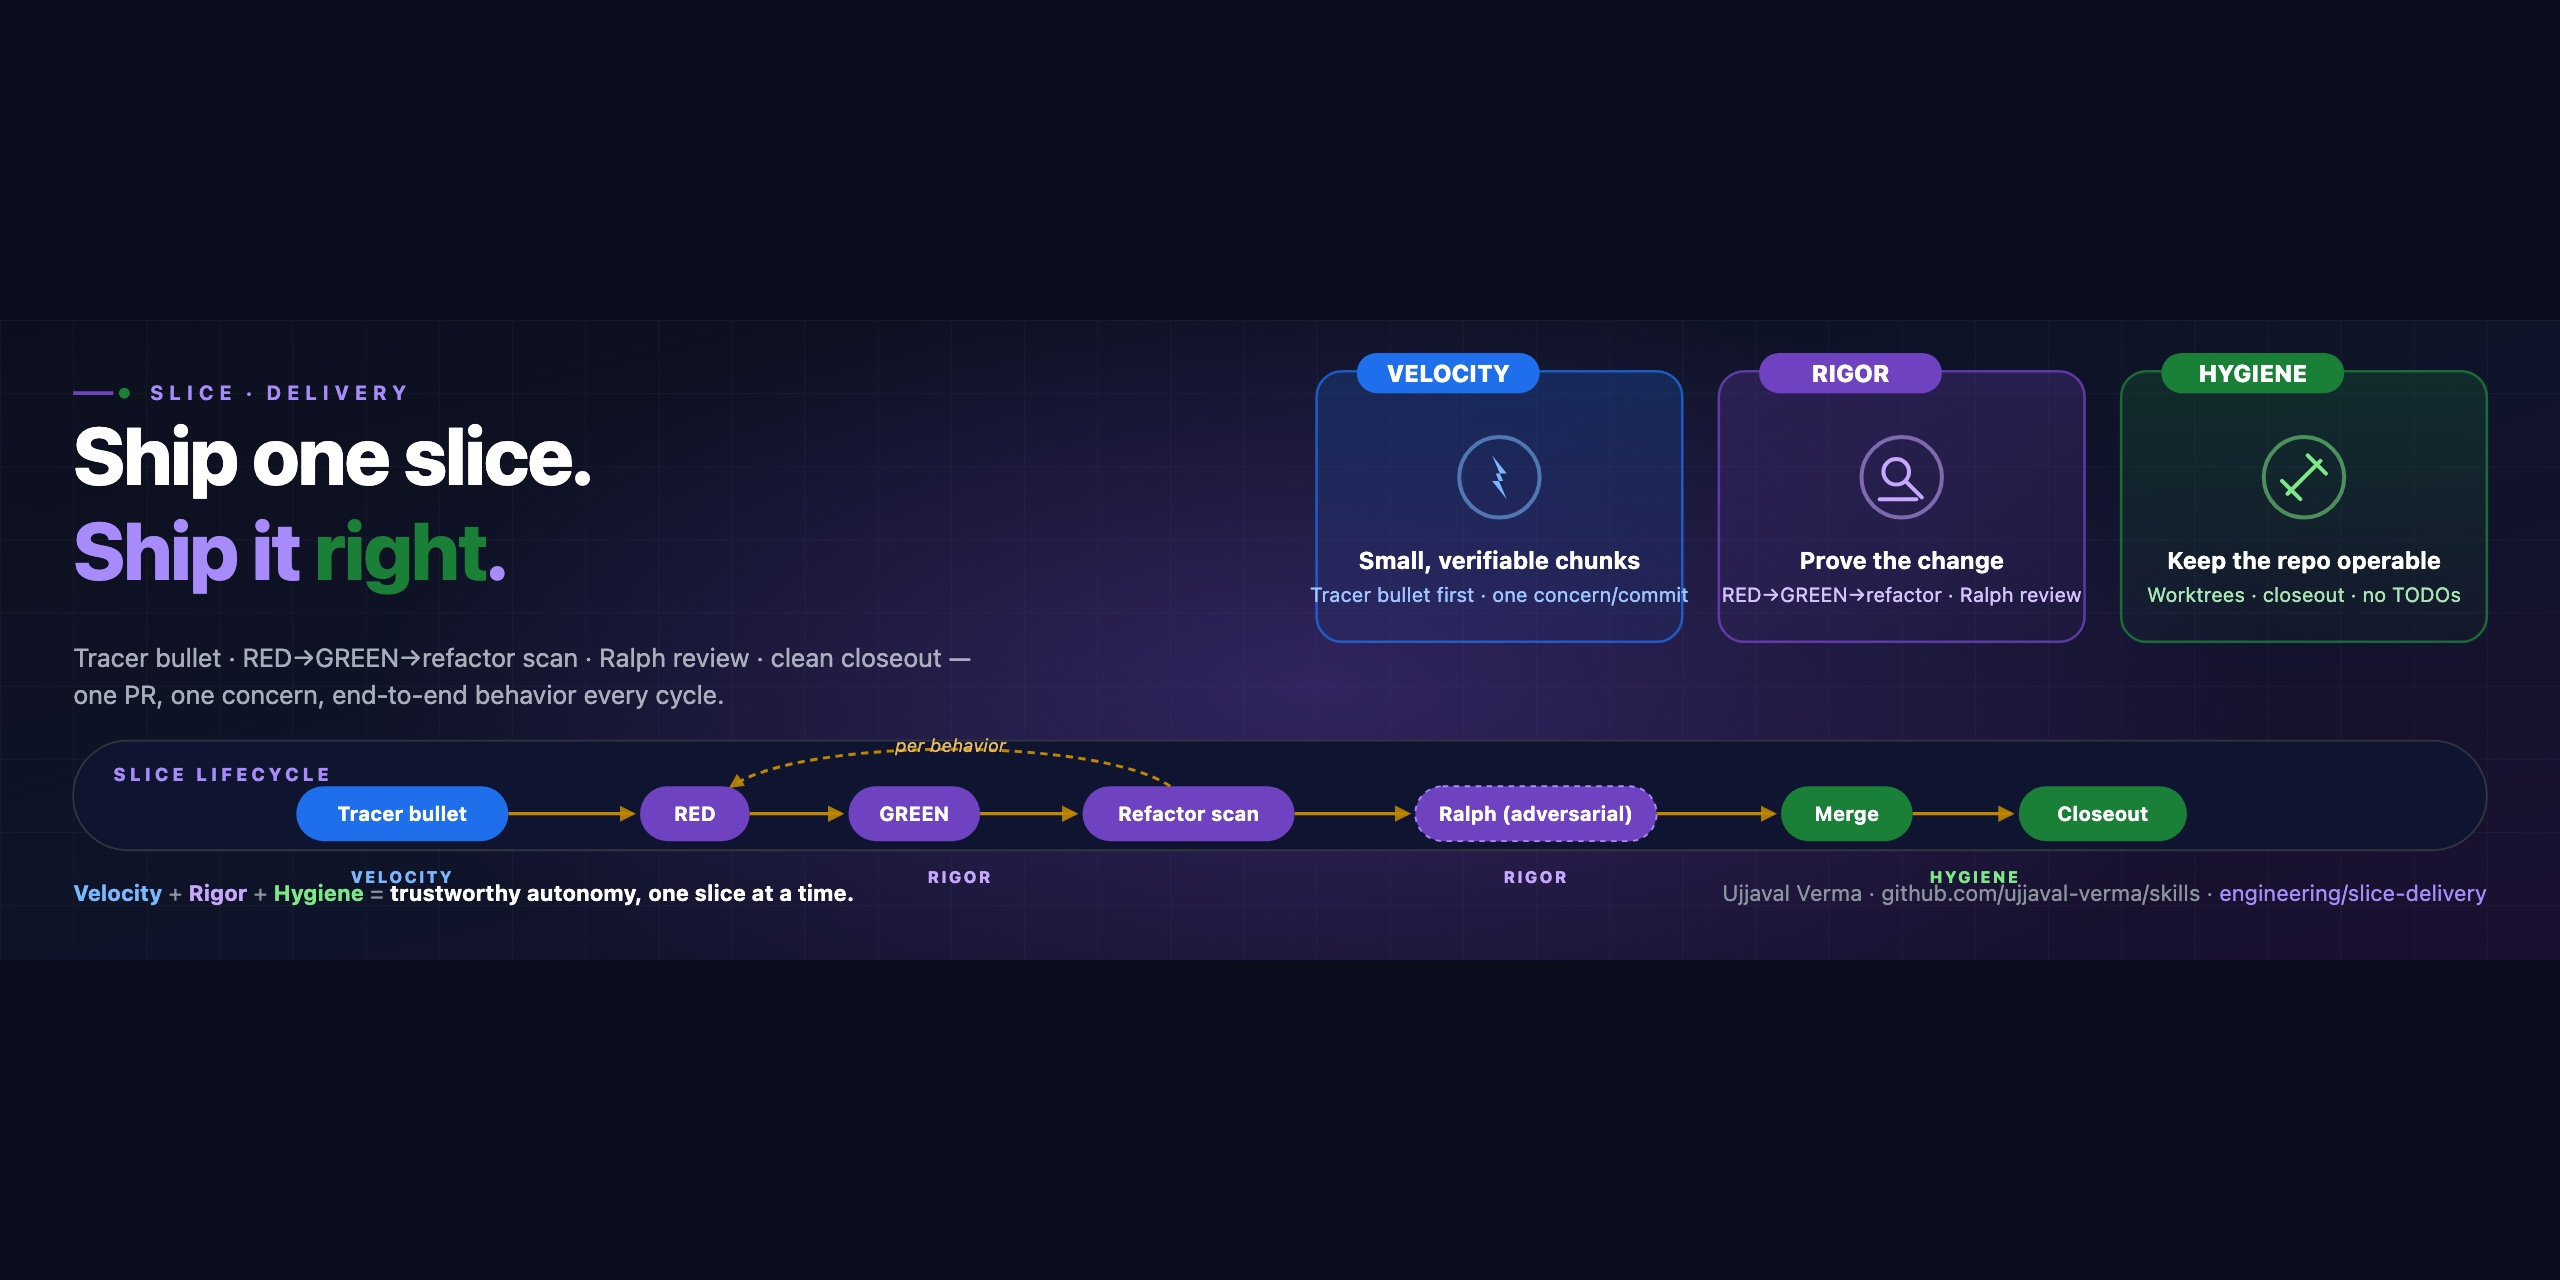
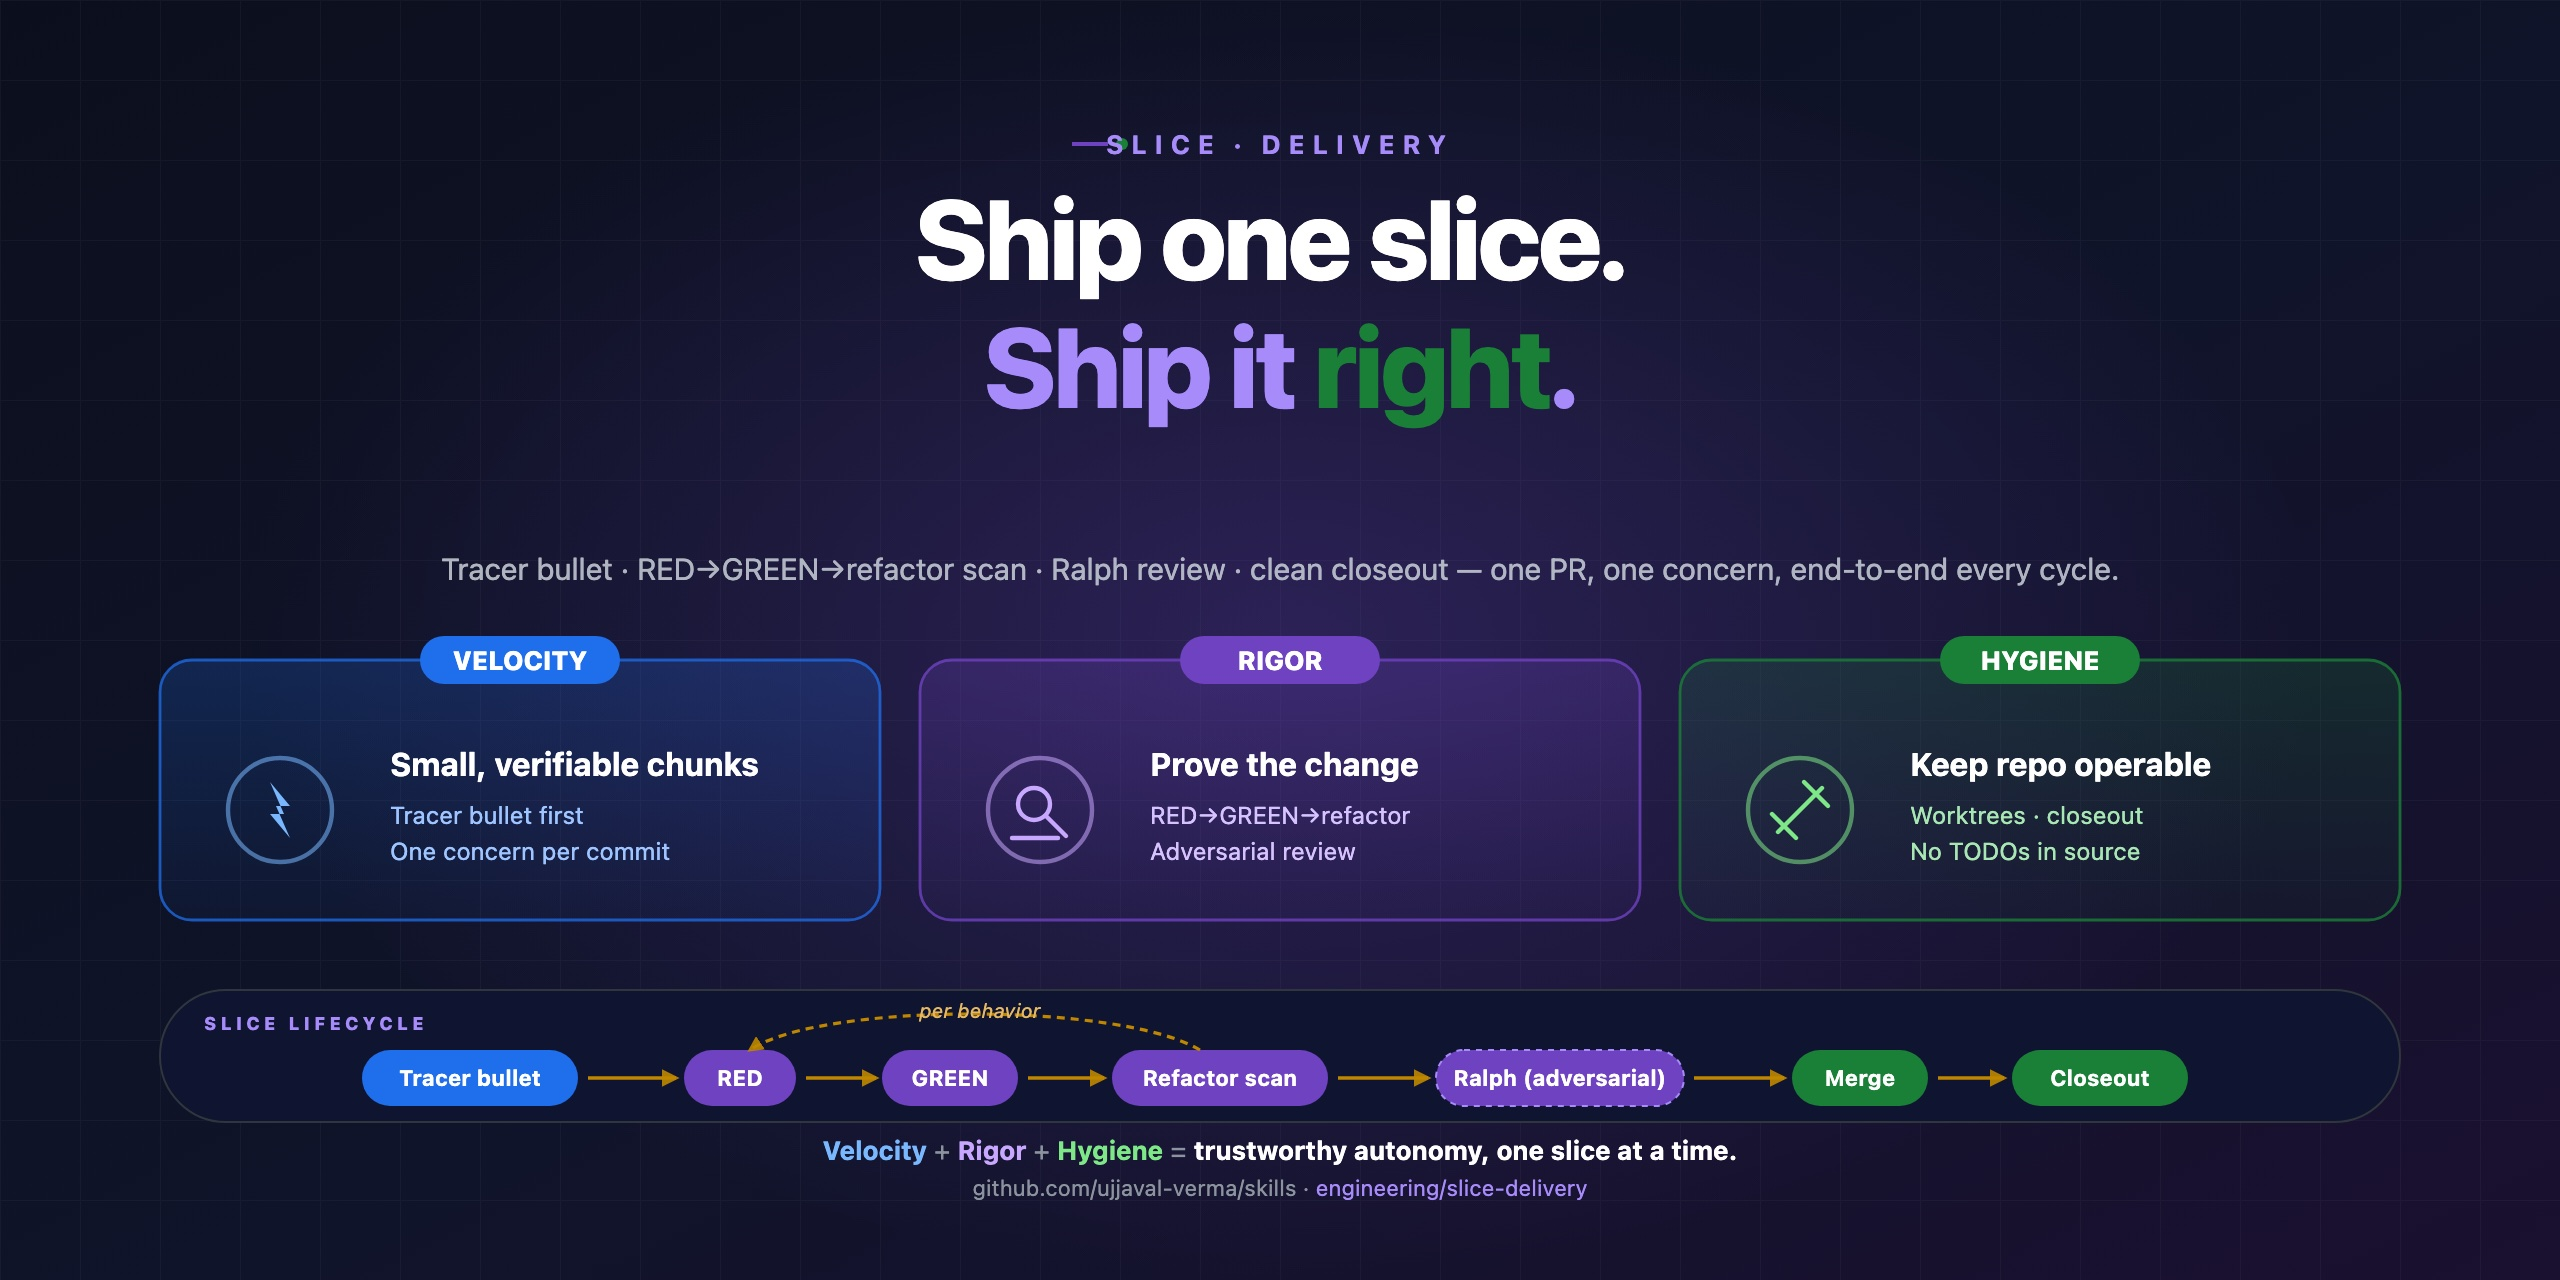
docs(assets): rebuild social card as inherent 2:1 with safe-area inset (#14)
* docs(assets): rebuild social card as inherent 2:1 with safe-area inset

The previous SVG was a 4:1 LinkedIn cover padded externally to 2:1 via
an HTML wrapper. Content ran edge-to-edge horizontally and risked being
cropped by GitHub's bleed zone per the official social-card template
(repository-open-graph-template.png: 1280×640 with a 40pt safe-area
border around important details).

Rewrites the SVG as intrinsically 1280×640 (rendered at 2560×1280 for
2× density) with the headline, pillar cards, lifecycle bar, and footer
all reflowed inside the [40,40]→[1240,600] safe region. Same design
language and palette as before, just composed for the 2:1 ratio
directly.

Side benefits:
- Regen command drops the HTML-wrapper hack: Chrome can render the SVG
  directly at the window size since the intrinsic dimensions match.
- Footer second line pulled to y=598 (was 608) to clear the bottom
  safe-area boundary.

Updates the maintainer regen section in CONTRIBUTING.md accordingly,
and adds a note about preserving the safe-area inset on future reflows.

* fix: address Ralph review on PR #14

- N1: bump lifecycle arrow gaps from 1px → 5px clearance from pill
  edges (arrows previously rendered visually adjacent to the rect
  borders at 2× density).
- N2: pin Chrome to --headless=old in the regen command — bare
  --headless is ambiguous on Chrome ≥112 (new headless mode has
  different viewport semantics, may not fill 2560×1280 exactly).
[…]

diff --git a/CONTRIBUTING.md b/CONTRIBUTING.md
@@ -64,21 +64,25 @@ Be kind, be specific, assume good faith. Disagreement is fine; performative agre
 
 ### Regenerating the social card
 
-The repo's GitHub social preview is uploaded manually via repo **Settings → Social preview** (no public API). Source SVG and rendered 2:1 JPG live in [`docs/assets/`](docs/assets/). To regenerate the JPG after editing the SVG, render via headless Chrome inside an HTML wrapper that pads the 4:1 SVG to a 2:1 canvas. Run from repo root:
+The repo's GitHub social preview is uploaded manually via repo **Settings → Social preview** (no public API). Source SVG (`docs/assets/social-card.svg`) and the rendered 2:1 JPG (`docs/assets/social-card.jpg`) live together; the SVG is intrinsically 1280×640 (2:1) with all content kept inside GitHub's 40pt safe-area inset, so the regen is a one-shot screenshot at 2× pixel density. Run from repo root:
 
 ```bash
 # macOS — Chrome + sips
-cat > /tmp/card.html <<HTML
-<!doctype html><html><head><style>
-html,body{margin:0;padding:0;background:#0b0f1d}
-.wrap{width:2560px;height:1280px;display:flex;align-items:center;justify-content:center}
-img{width:2560px;height:640px;display:block}
-</style></head>
-<body><div class="wrap"><img src="file://$PWD/docs/assets/social-card.svg"/></div></body></html>
-HTML
-"/Applications/Google Chrome.app/Contents/MacOS/Google Chrome" --headless --disable-gpu \
-  --window-size=2560,1280 --screenshot=/tmp/card.png file:///tmp/card.html
-sips -s format jpeg -s formatOptions 92 /tmp/card.png --out docs/assets/social-card.jpg
+"/Applications/Google Chrome.app/Contents/MacOS/Google Chrome" --headless=old --disable-gpu \
+  --window-size=2560,1280 --screenshot=/tmp/card.png \
+  "file://$PWD/docs/assets/social-card.svg"
+sips -s format jpeg -s formatOptions 85 /tmp/card.png --out docs/assets/social-card.jpg
 ```
 
-On Linux, swap `sips` for ImageMagick: `convert /tmp/card.png -quality 92 docs/assets/social-card.jpg`.
+`--headless=old` pins the legacy headless mode so the screenshot fills exactly `2560×1280`; Chrome ≥112 treats a bare `--headless` as the new mode, which has different viewport semantics. JPG quality 85 keeps the file under ~400 KB with no perceptible loss at GitHub's display size.
+
+On Linux, swap the macOS-specific flags and tool: drop `--disable-gpu`, add `--no-sandbox` (required in most CI containers), and pipe through ImageMagick instead of `sips`:
+
+```bash
+google-chrome --headless=old --no-sandbox \
+  --window-size=2560,1280 --screenshot=/tmp/card.png \
+  "file://$PWD/docs/assets/social-card.svg"
+convert /tmp/card.png -quality 85 docs/assets/social-card.jpg
+```
+
+If you reflow the SVG, keep meaningful content inside the safe area (40pt inset → coordinates `[40,40]` to `[1240,600]` in the 1280×640 viewBox) so GitHub's bleed crop doesn't clip anything important.
